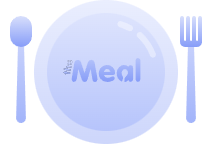
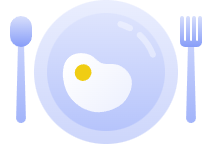
Use overflow-x: clip instead of hidden on body and .main-landing
Switching from `hidden` to `clip` is purely paint clipping and does
not create a scroll container, which has two practical wins:

1. body's `overflow-y` no longer gets forced from `visible` to `auto`
   (a side effect of any non-visible overflow value on the other axis
   when using `hidden`). body now stays a normal in-flow element with
   `overflow-y: visible`, and the html element owns vertical scroll.

2. Intentionally-bleeding decorative content (hero radial-gradient
   blobs and the bottom Order section's final-tray images) still gets
   clipped visually, but no longer makes browsers treat the landing
   root as a scrollable region.

Visual rendering is unchanged: the bleed-x backgrounds, glow blobs
and final tray bleed render exactly as before. `overflow: clip` is
supported in all modern browsers (Chrome 90+, Firefox 81+, Safari 16+).

Changed region(s): [[0.283, 0.3611, 0.6792, 0.7778]]

diff --git a/src/app/main-landing/styles/base.css b/src/app/main-landing/styles/base.css
@@ -89,17 +89,23 @@
 /* Global resets are kept narrow: Tailwind preflight already sets box-sizing
    and body margin. The rules below scope smooth scrolling and horizontal
    overflow guarding to documents that actually mount the landing, so the
-   checkout, legal, and 404 routes are untouched. We intentionally do NOT
-   set `overflow-x: hidden` on <html>: doing so combined with body's own
-   `overflow-x: hidden` makes both elements scroll containers and the
-   browser reserves two vertical scrollbar gutters side by side. Horizontal
-   clipping lives on body and on `.main-landing` itself. */
+   checkout, legal, and 404 routes are untouched.
+
+   We use `overflow-x: clip` (not `hidden`) on body and `.main-landing`:
+   - `clip` is pure paint clipping; it does NOT create a scroll container
+     or force `overflow-y` to compute as `auto`.
+   - `hidden` would turn both <body> and `.main-landing` into vertical
+     scroll containers, producing duplicate scrollbar gutters and a
+     non-zero scrollWidth even for intentionally-bleeding decorative
+     elements (hero glow blobs, final-tray bleed).
+   Modern browsers (Chrome 90+, Firefox 81+, Safari 16+) all support
+   `overflow: clip`. */
 html:has(.main-landing) {
   scroll-behavior:smooth;
   scrollbar-gutter:stable;
 }
 html:has(.main-landing) body {
-  overflow-x:hidden;
+  overflow-x:clip;
 }
 .main-landing {
   -webkit-font-smoothing:antialiased;
@@ -158,7 +164,7 @@ html:has(.main-landing) body {
   background:var(--cream); color:var(--ink);
   font-family:var(--font); font-weight:500; line-height:1.5;
   font-size:var(--fs-16);
-  overflow-x:hidden;
+  overflow-x:clip;
 }
 @media (width >= theme(--breakpoint-md)) {
   .main-landing {